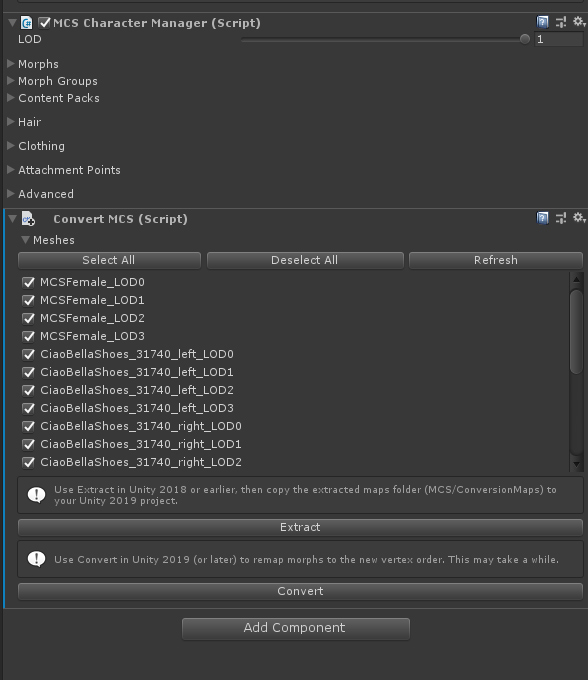
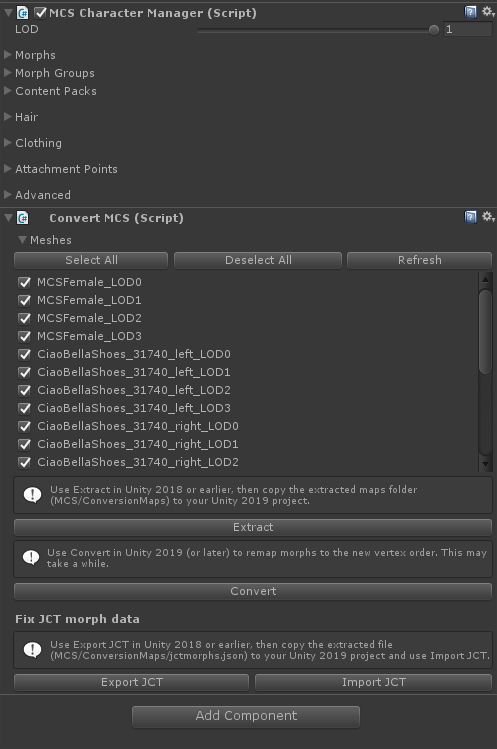
Added JCT fix; Fixed UnityEditor dependency; Updated screenshot and readme.

Changed region(s): [[0.0, 0.0, 0.996, 0.9574], [0.8753, 0.0, 0.996, 0.0618]]

diff --git a/RadboudVR/Avatar/Scripts/ConvertMCS.cs b/RadboudVR/Avatar/Scripts/ConvertMCS.cs
@@ -2,11 +2,13 @@
 using System.Collections.Generic;
 using System.IO;
 using UnityEngine;
-using UnityEditor;
 using MCS;
 using MCS.FOUNDATIONS;
 using MCS.SERVICES;
 using MCS_Utilities.Morph;
+#if UNITY_EDITOR
+using UnityEditor;
+#endif
 
 namespace RadboudVR.Avatar
 {
@@ -16,13 +18,23 @@ namespace RadboudVR.Avatar
         [SerializeField]
         public List<MeshListItem> _meshList = new List<MeshListItem>();
 
+        string mapdir { get { return Application.dataPath + "/MCS/ConversionMaps"; } }
+
+        void Start()
+        {
+            // JCT morphs are being re-imported incorrectly every time you reload Unity or hit play, so we'll have to correct it every time.
+            ImportJCT();
+        }
+
+        /// <summary>
+		/// Extract morphs from every selected mesh.
+		/// </summary>
         public void Extract()
         {
-            string conversionMapPath = Application.dataPath + "/MCS/ConversionMaps";
-            Directory.CreateDirectory(conversionMapPath);
+            Directory.CreateDirectory(mapdir);
 
             foreach (MeshListItem ms in _meshList) {               
-                string cdPath = conversionMapPath + "/" + ms.mesh.name + ".json";
+                string cdPath = mapdir + "/" + ms.mesh.name + ".json";
                 if (File.Exists(cdPath) || !ms.isSelected) {
                     // Skip already extracted or unselected meshes
                     continue;
@@ -36,13 +48,14 @@ namespace RadboudVR.Avatar
                 ms.isSelected = false;
             }
             RefreshMeshList();
-            Debug.Log("Extract complete. Find your extracted vertex maps in: " + conversionMapPath);
+            Debug.Log("Extract complete. Find your extracted vertex maps in: " + mapdir);
         }
 
+        /// <summary>
+		/// Loads extracted morph data and remaps vertices to match current models
+        /// /// </summary>
         public void Convert()
         {
-            string conversionMapPath = Application.dataPath + "/MCS/ConversionMaps";
-
             ProjectionMeshMap pmm = new ProjectionMeshMap();
             StreamingMorphs sm = new StreamingMorphs();
             StreamingMorphs.LoadMainThreadAssetPaths();
@@ -59,7 +72,7 @@ namespace RadboudVR.Avatar
 
                 // Read old vertex map
                 ShowProgress(smr.name, "Loading Vertex Map", 0);
-                string cdFile = conversionMapPath + "/" + smr.name + ".json";
+                string cdFile = mapdir + "/" + smr.name + ".json";
                 if (!File.Exists(cdFile)) {
                     Debug.LogWarning("Skipping:" + smr.name + ", vertex map not found!");
                     continue;
@@ -127,8 +140,11 @@ namespace RadboudVR.Avatar
                 ms.isSelected = false;
             }
             RefreshMeshList();
-            EditorUtility.ClearProgressBar();
             Debug.Log("Conversion Complete!");
+
+            #if UNITY_EDITOR
+                EditorUtility.ClearProgressBar();
+            #endif
         }
 
         public void RefreshMeshList()
@@ -147,10 +163,56 @@ namespace RadboudVR.Avatar
             }
             _meshList = newMeshList;
         }
+
+        /// <summary>
+		/// Export morph data from the JCTTransition component.
+		/// </summary>
+        public void ExportJCT()
+        {
+            JCTTransition jct = GetComponentInChildren<JCTTransition>();
+            if (jct == null) {
+                Debug.LogWarning("Failed to export JCT morphs: JCTTransition not found");
+                return;
+            }
+            
+            // Store in resources so we can (re)load JCTs in standalone builds
+            string jctpath = Application.dataPath + "/MCS/Resources/jctmorphs.json";
+            StreamWriter writer = new StreamWriter(jctpath, false);
+
+            // Create serializable struct for morph data that we can easily write to json
+            JCTMorphList morphList = new JCTMorphList();
+            morphList.morphs = jct.m_morphs;
+            writer.WriteLine(JsonUtility.ToJson(morphList));
+            writer.Close();
+            Debug.Log("JCT morph data exported!");
+        }
+
+        /// <summary>
+		/// Import JCTTransition morph data
+		/// </summary>
+        public void ImportJCT()
+        {
+            JCTTransition jct = GetComponentInChildren<JCTTransition>();
+            var jctData = Resources.Load<TextAsset>("jctmorphs");
+
+            if (jct == null || jctData == null) {
+                Debug.LogWarning("Failed to import JCT morphs.");
+                return;
+            }
+
+            // Grab morphList from json
+            JCTMorphList morphList = JsonUtility.FromJson<JCTMorphList>(jctData.text);
+            // Replace current jct morph data with the extracted data
+            jct.m_morphs = morphList.morphs;
+
+            Debug.Log("JCT morph data imported.");
+        }
         
         void ShowProgress(string elem, string info, float progress)
         {
-            EditorUtility.DisplayProgressBar("Processing " + elem + "...", info, progress);
+            #if UNITY_EDITOR
+                EditorUtility.DisplayProgressBar("Processing " + elem + "...", info, progress);
+            #endif
         }
 
         MorphData RemapMorphData(SkinnedMeshRenderer smr, MorphData morphData, Dictionary<int, int> tsMap)
@@ -218,6 +280,12 @@ namespace RadboudVR.Avatar
             this.mesh = mesh;
             isSelected = select;
         }
+    }
+
+    [System.Serializable]
+    public struct JCTMorphList
+    {
+        public JCTMorph[] morphs;
     }
 }
 

diff --git a/RadboudVR/Avatar/Editor/ConvertMCSEditor.cs b/RadboudVR/Avatar/Editor/ConvertMCSEditor.cs
@@ -43,7 +43,7 @@ namespace RadboudVR.Avatar
                 }
                 GUILayout.EndHorizontal();
                 //GUILayout.BeginVertical(EditorStyles.helpBox);
-                scrollPos = EditorGUILayout.BeginScrollView(scrollPos, GUILayout.MaxHeight(200));
+                scrollPos = EditorGUILayout.BeginScrollView(scrollPos, GUILayout.MaxHeight(200), GUILayout.MinHeight(64));
                 foreach (MeshListItem ms in convertMCS._meshList) {
                     GUILayout.BeginHorizontal();
                     ms.isSelected = EditorGUILayout.Toggle(ms.isSelected, GUILayout.MaxWidth(14));
@@ -65,6 +65,19 @@ namespace RadboudVR.Avatar
                 convertMCS.Convert();
             }
             GUILayout.EndVertical();
+
+            EditorGUILayout.Space();
+            EditorGUILayout.LabelField("Fix JCT morph data", EditorStyles.boldLabel);
+            EditorGUILayout.HelpBox("Use Export JCT in Unity 2018 or earlier, then copy the extracted file (MCS/ConversionMaps/jctmorphs.json) to your Unity 2019 project and use Import JCT.", MessageType.Info);
+            GUILayout.BeginHorizontal();
+            if (GUILayout.Button(new GUIContent("Export JCT", "Export JCTTransition morph data (<2019)"))) {
+                convertMCS.ExportJCT();
+            }           
+            if (GUILayout.Button(new GUIContent("Import JCT", "Import and override JCTTransition morph data (2019+)"))) {
+                convertMCS.ImportJCT();
+            }
+            GUILayout.EndHorizontal();
+
             serializedObject.ApplyModifiedProperties();
         }
     }

diff --git a/README.md b/README.md
@@ -2,13 +2,15 @@
 This converter remaps the morphs of the MCS avatar system (v1.7) so they will work with Unity 2019 and later. 
 
 ## The issue.
-Unity introduced a new way of optimizing mesh on import, which scrambles the vertex order of the MCS models. However, the MCS morph targets will still have the old vertex order, so when applying a morph the wrong vertices get pushed and you end up with some abstract art.
-This tool converts the morph target maps to their new vertex order.
+Unity introduced a new way of optimizing mesh on import, which scrambles the vertex order of the MCS models. However, the MCS morph targets will still have the old vertex order, so when applying a morph the wrong vertices get pushed and you end up with some abstract art. On top of that, morph data for the JCTTransition component, which controls joint offsets for every morph, is corrupted during import.
+This tool converts the morph target maps to their new vertex order, and replaces the new JCTTransition morph data with the old.
+
+In the future, hopefully someone will fix the MCS_Importer plugin so vertex order and JCT morph data will automatically import correctly again.
 
 More information on the issues of MCS in Unity 2019 and other fixes can be found in this thread the Unity forums: <https://forum.unity.com/threads/released-morph-character-system-mcs-male-and-female.355675>. 
 
 ## Installing
-1. Create TWO Unity projects: one in version that works with MCS 1.7 (i.e. 2017 or 2018), and one in your later version (2019+). Apply the following steps to both projects.
+1. Create TWO Unity projects: one in version that works with MCS 1.7 (i.e. 2017 or <2018.4), and one in your later version (2019+). Apply the following steps to both projects.
 2. From <https://github.com/mcs-sdk/mcs/releases>, download and import your MCS packages. The CodeAndShaders.unitypackage and the female or male base package are mandatory; add whatever additional clothing/hair packs you have and need.
 3. Import the MCSConverter.unitypackage included in this repo, or drag and drop the RadboudVR folder into your Assets folder.
 4. Drag the MCSFemale or MCSMale prefab into your scene. 
@@ -21,13 +23,20 @@ More information on the issues of MCS in Unity 2019 and other fixes can be found
 In your Unity 2017/2018 project:
 1. Select the meshes you wish to convert (default selects all)
 2. Click "Extract". This will extract vertex maps of all selected models into a file folder.
-3. Copy the extracted maps folder (Assets/MCS/ConversionMaps) into the same location in your Unity 2019+ project.
+3. Click "Export JCT". This will export the JCTTransition morph data.
+3. Copy the extracted maps folder (Assets/MCS/ConversionMaps) and the JCT file (Assets/MCS/Resources) into the same location in your Unity 2019+ project.
 
 In your Unity 2019+ project:
 1. Select all meshes you wish to convert.
-2. Click "Convert". This may take a while and will overwrite the old morph streamingasset files.
+2. Click "Convert". This may take a while and will overwrite the old morph streamingasset files. You can also choose to Import JCT data here, but it will likely revert the changes when you restart Unity (see Limitations).
 3. Restart Unity.
-4. Turn off GPU Skinning in player options, otherwise only the first morph you edit in the editor will work.
 
 ## Limitations
-While this converts all the morph maps, the MCS 1.7 system also relies on a "JCT manager" for some morphs that has its own mapping. I have not yet figured out how to remap those, so if you run into any  issues, try disabling the JCT Transition component on the hip of your MCS character.
+Until the JCT importer is fixed, it will re-import and corrupt its morph data every time you reopen the Unity project or hit play. Keep the Convert MCS component attached to your characters and keep the jctmorphs.json file to reload the correct jcts during runtime (hence it's in the Resources folder).
+
+## Troubleshooting
+*I don't see any morphs when I adjust the sliders apart from the very first one.*
+Make sure GPU Skinning is turned OFF in player options.
+
+*I'm getting build errors saying "Assembly UnityEditor is referenced in MCS_Importer"*
+Select MCS_Importer.dll and under Select platforms for plugin, only include Editor.
